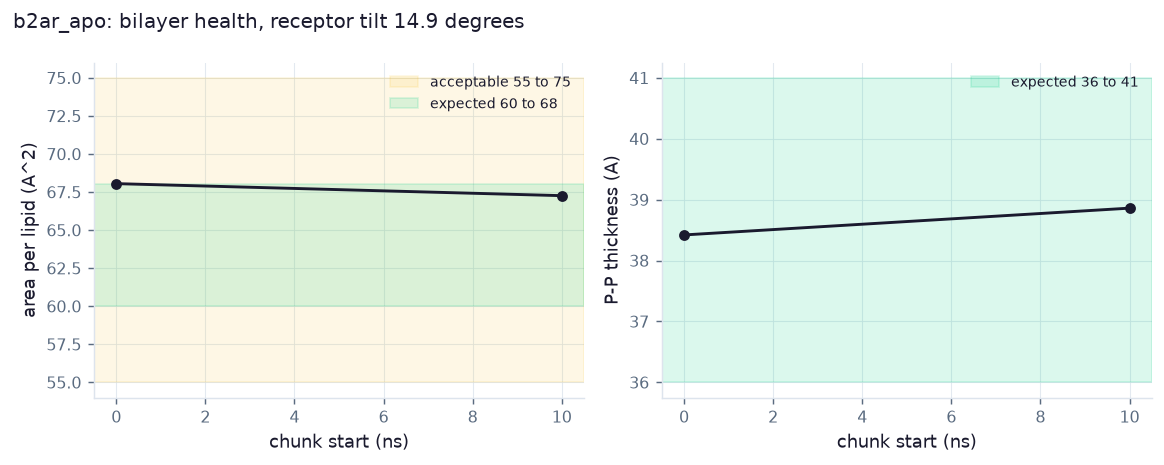
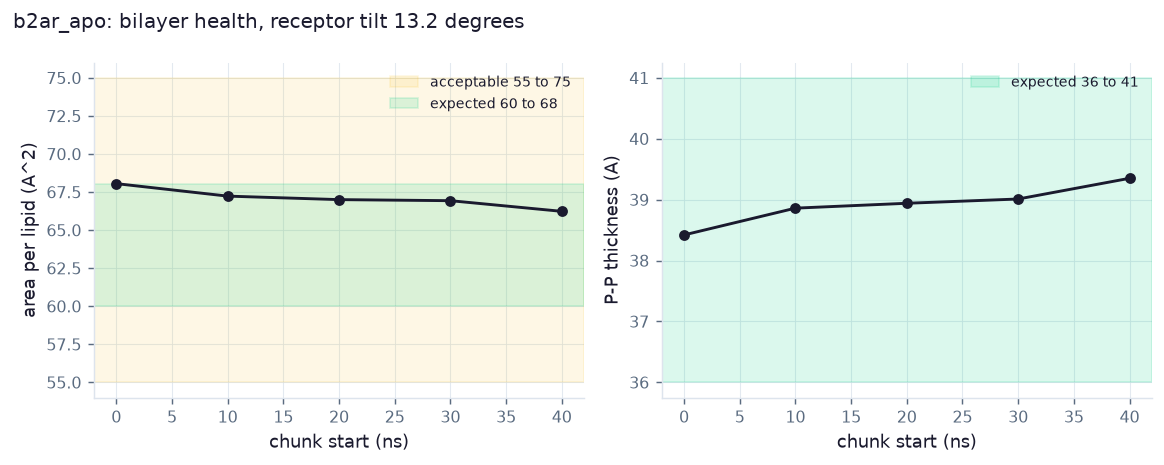
the first production row finished, bilayer QC and all
b2ar_apo completed its 50 ns at 17:36, 13.27 h at 59.7 ns/day. It is the
first row analysed with the bilayer QC rather than --skip-membrane, so its
numbers are final rather than a streaming pass on a partial trajectory.

Section 5.2 measured area per lipid at 68.4 A^2, outside the expected window
and still falling, and said the per-chunk series over a 50 ns row would say
whether it settled. It does: 68.05 to 66.23 A^2 monotonically, mean 67.09,
with thickness rising 38.42 to 39.35 A, mean 38.92. Both means are inside the
expected windows rather than only the acceptable ones, and core waters halve
as the leaflets close. Only chunk 0 is outside expected, by 0.05 A^2, which
is the chunk gate_six was written to tolerate. G6 closed.

The state result over 499 frames: no conflicts in 2,495 motif-frames.
NPxxY ends at +0.766 and is active in all 499 frames, TM7 at +0.461 and
likewise. TM5 is the one motif that changed sign, reaching -0.144 on the
final tenth. 5.0c read it as flat at 30.8 ns and that was too early to tell.
The whole-protein number, +0.289, reports none of it.

D033 records the DFG dihedral label as N/A. The naming scheme is published
but its Ramachandran regions are DBSCAN clusters, not degree boundaries, and
the chi1 rotamers are nominal centres with no tolerance, so the label cannot
be reproduced from the primary source. Inventing cutoffs and publishing the
result under a name a reader can look up is the fault D032 turns on.
[…]

diff --git a/FINDINGS.md b/FINDINGS.md
@@ -3997,6 +3997,69 @@ different and answerable question.
 
 ---
 
+### 5.6 The first finished row, and the answer 5.2 was waiting for
+
+`b2ar_apo` completed its 50 ns at 17:36 on 11 October, 13.27 hours of wall clock
+at 59.7 ns/day on OpenCL single precision, 194,032 atoms. It is the first of the
+four production rows to finish, and the first to be analysed with the bilayer QC
+rather than with `--skip-membrane`, so these are final numbers and not a
+streaming pass's view of a partial trajectory.
+
+**The bilayer settles inside the expected window.** Section 5.2 measured area
+per lipid at 68.4 Å², 0.4 Å² outside the window and still falling, and said the
+per-chunk series over a 50 ns row would say whether it settled. It does:
+
+| chunk | area per lipid | P–P thickness | tilt | core waters |
+|---|---|---|---|---|
+| 0 to 10 ns | 68.05 Å² | 38.42 Å | 13.6° | 54.4 |
+| 10 to 20 ns | 67.23 Å² | 38.86 Å | 15.4° | 49.4 |
+| 20 to 30 ns | 67.00 Å² | 38.94 Å | 13.2° | 40.6 |
+| 30 to 40 ns | 66.93 Å² | 39.01 Å | 14.3° | 38.7 |
+| 40 to 50 ns | 66.23 Å² | 39.35 Å | 9.6° | 28.1 |
+| **mean** | **67.09 Å²** | **38.92 Å** | | |
+
+Both means are inside the **expected** windows, 60 to 68 Å² and 36 to 41 Å,
+not merely inside the acceptable ones, and every change is monotonic and in the
+direction a compacting bilayer should move: area per lipid falls, thickness
+rises, and the count of waters in the hydrophobic core drops by half as the
+leaflets close up. Only the first chunk is outside expected, by 0.05 Å², which
+is the chunk `gate_six` was written to tolerate. G6 is closed.
+
+**The state result, over all 499 scored frames:**
+
+| motif | start | final tenth | sd | first half | second half |
+|---|---|---|---|---|---|
+| H8 | +0.473 | +0.252 | 0.151 | +0.199 | +0.214 |
+| NPxxY | +0.678 | +0.766 | 0.067 | +0.718 | +0.755 |
+| TM5 | −0.012 | −0.144 | 0.124 | +0.000 | −0.087 |
+| TM6 | +0.534 | +0.331 | 0.090 | +0.432 | +0.353 |
+| TM7 | +0.377 | +0.461 | 0.063 | +0.411 | +0.427 |
+
+Whole protein, residue weighted: **+0.319 at the start, +0.218 over the final
+tenth**, labelled active in 402 of 499 frames and intermediate in the other 97.
+**No frame produced a single conflict**, in 2,495 motif-frames: the geometric
+label and the published rule agreed everywhere in this run.
+
+**TM5 is the one motif that changed sign, and 5.0c got its direction wrong.**
+At 30.8 ns TM5's final tenth read −0.014 and 5.0c recorded it as flat. Over the
+full run it reaches −0.144 on the final tenth and −0.087 over the second half,
+and it spends 45 frames labelled inactive against 17 active. So the drift 5.0c
+could not see at 30 ns is real and it is TM5's. Everything else holds or
+strengthens: NPxxY ends at +0.766 and is labelled active in all 499 frames, TM7
+at +0.461 and likewise all 499, and TM6 stays active in 488.
+
+That combination is the result worth stating plainly. The hallmark of the active
+receptor, the NPxxY motif at the bottom of TM7, does not loosen at all over
+50 ns without an agonist, while TM5 drifts towards the inactive ensemble and H8
+loses half its margin. The whole-protein number, +0.289 at the final frame,
+reports none of that, which is the same lesson 5.0b recorded at 14.6 ns and the
+reason the per-motif timelines exist.
+
+**What this row cannot say.** 50 ns is two to three orders of magnitude short of
+the microsecond relaxation β2AR's active-to-inactive transition was observed on,
+so TM5's drift is a beginning and not a transition, and one replica cannot
+separate it from an excursion. Section 7 holds the rest.
+
 ## 6. The positive controls
 
 Section 9 names six. **Five are decided** and one is pending on data that is

diff --git a/DECISIONS.md b/DECISIONS.md
@@ -1144,3 +1144,46 @@ is what every page shows.
 Reproducing GPCRdb's number approximately and calling it the activation index
 would be worse than not having it: it would carry a name a reader could look up
 and a value that would not match what they found.
+
+---
+
+## D033: the DFG dihedral label is N/A, because its regions are clusters and not cutoffs
+
+Section 5.4's table lists a "DFG dihedral label (optional)", to be produced by
+"Kincore standalone on X-DFG backbone and Phe chi1", giving "BLAminus etc., or
+`N/A`". Unlike the activation index in [[D032]] the spec offers `N/A` outright,
+so this is a record of why that is the branch taken rather than a refusal to
+meet a condition.
+
+**The naming scheme is published and unambiguous.** Modi and Dunbrack (PNAS
+2019, 116, 6818, doi 10.1073/pnas.1814279116) label a kinase by the Ramachandran
+region of the X, D and F residues of the XDFG motif followed by the Phe chi1
+rotamer: BLAminus is the active state, ABAminus active-like, BLBplus the
+CDK/Src-inactive one, BBAminus the classical DFG-out that type-2 inhibitors
+bind, BABtrans the intermediate. The letters stand for "A" alpha-helical, "B"
+beta-sheet and "L" left-handed helical, and the rotamers for the nominal -60,
++60 and 180 degree chi1.
+
+**What is not published is any boundary.** The regions are not defined by
+degree ranges. The authors clustered the phi/psi pairs with DBSCAN at
+eps = 0.05 and MinPts = 20 and then annotated the clusters they got, so
+membership is decided by a fitted clustering over their own structure set, not
+by a threshold a reader can apply. The paper states the rotamer values as
+nominal centres with no tolerance either, and it notes that some CDK2 chains sit
+near chi1 = -100 degrees, between g-minus and trans, without saying which way
+such a chain is called. Both parts of the label therefore need numbers the
+primary source does not contain.
+
+Implementing it would mean inventing the cutoffs and presenting the result under
+a name a reader can look up, which is the fault [[D032]] turns on: a label such
+as "BLAminus" carries the authority of the published scheme, and a frame this
+build called BLAminus by boundaries of its own choosing could be called
+something else by Kincore itself. The honest options are to run Kincore, which
+is not a dependency of this build, or to report `N/A`.
+
+**So `N/A` it is, and the state is read by the measurements that do have
+published, verifiable criteria**: the DFG two-distance test, recalibrated in
+section 1.1 with the recalibration shown, and the geometric distance to the
+KLIFS-labelled reference ensembles. Those already separate ABL1's DFG-in and
+DFG-out references 17 of 17, which is what the dihedral label would have been
+asked to corroborate.
